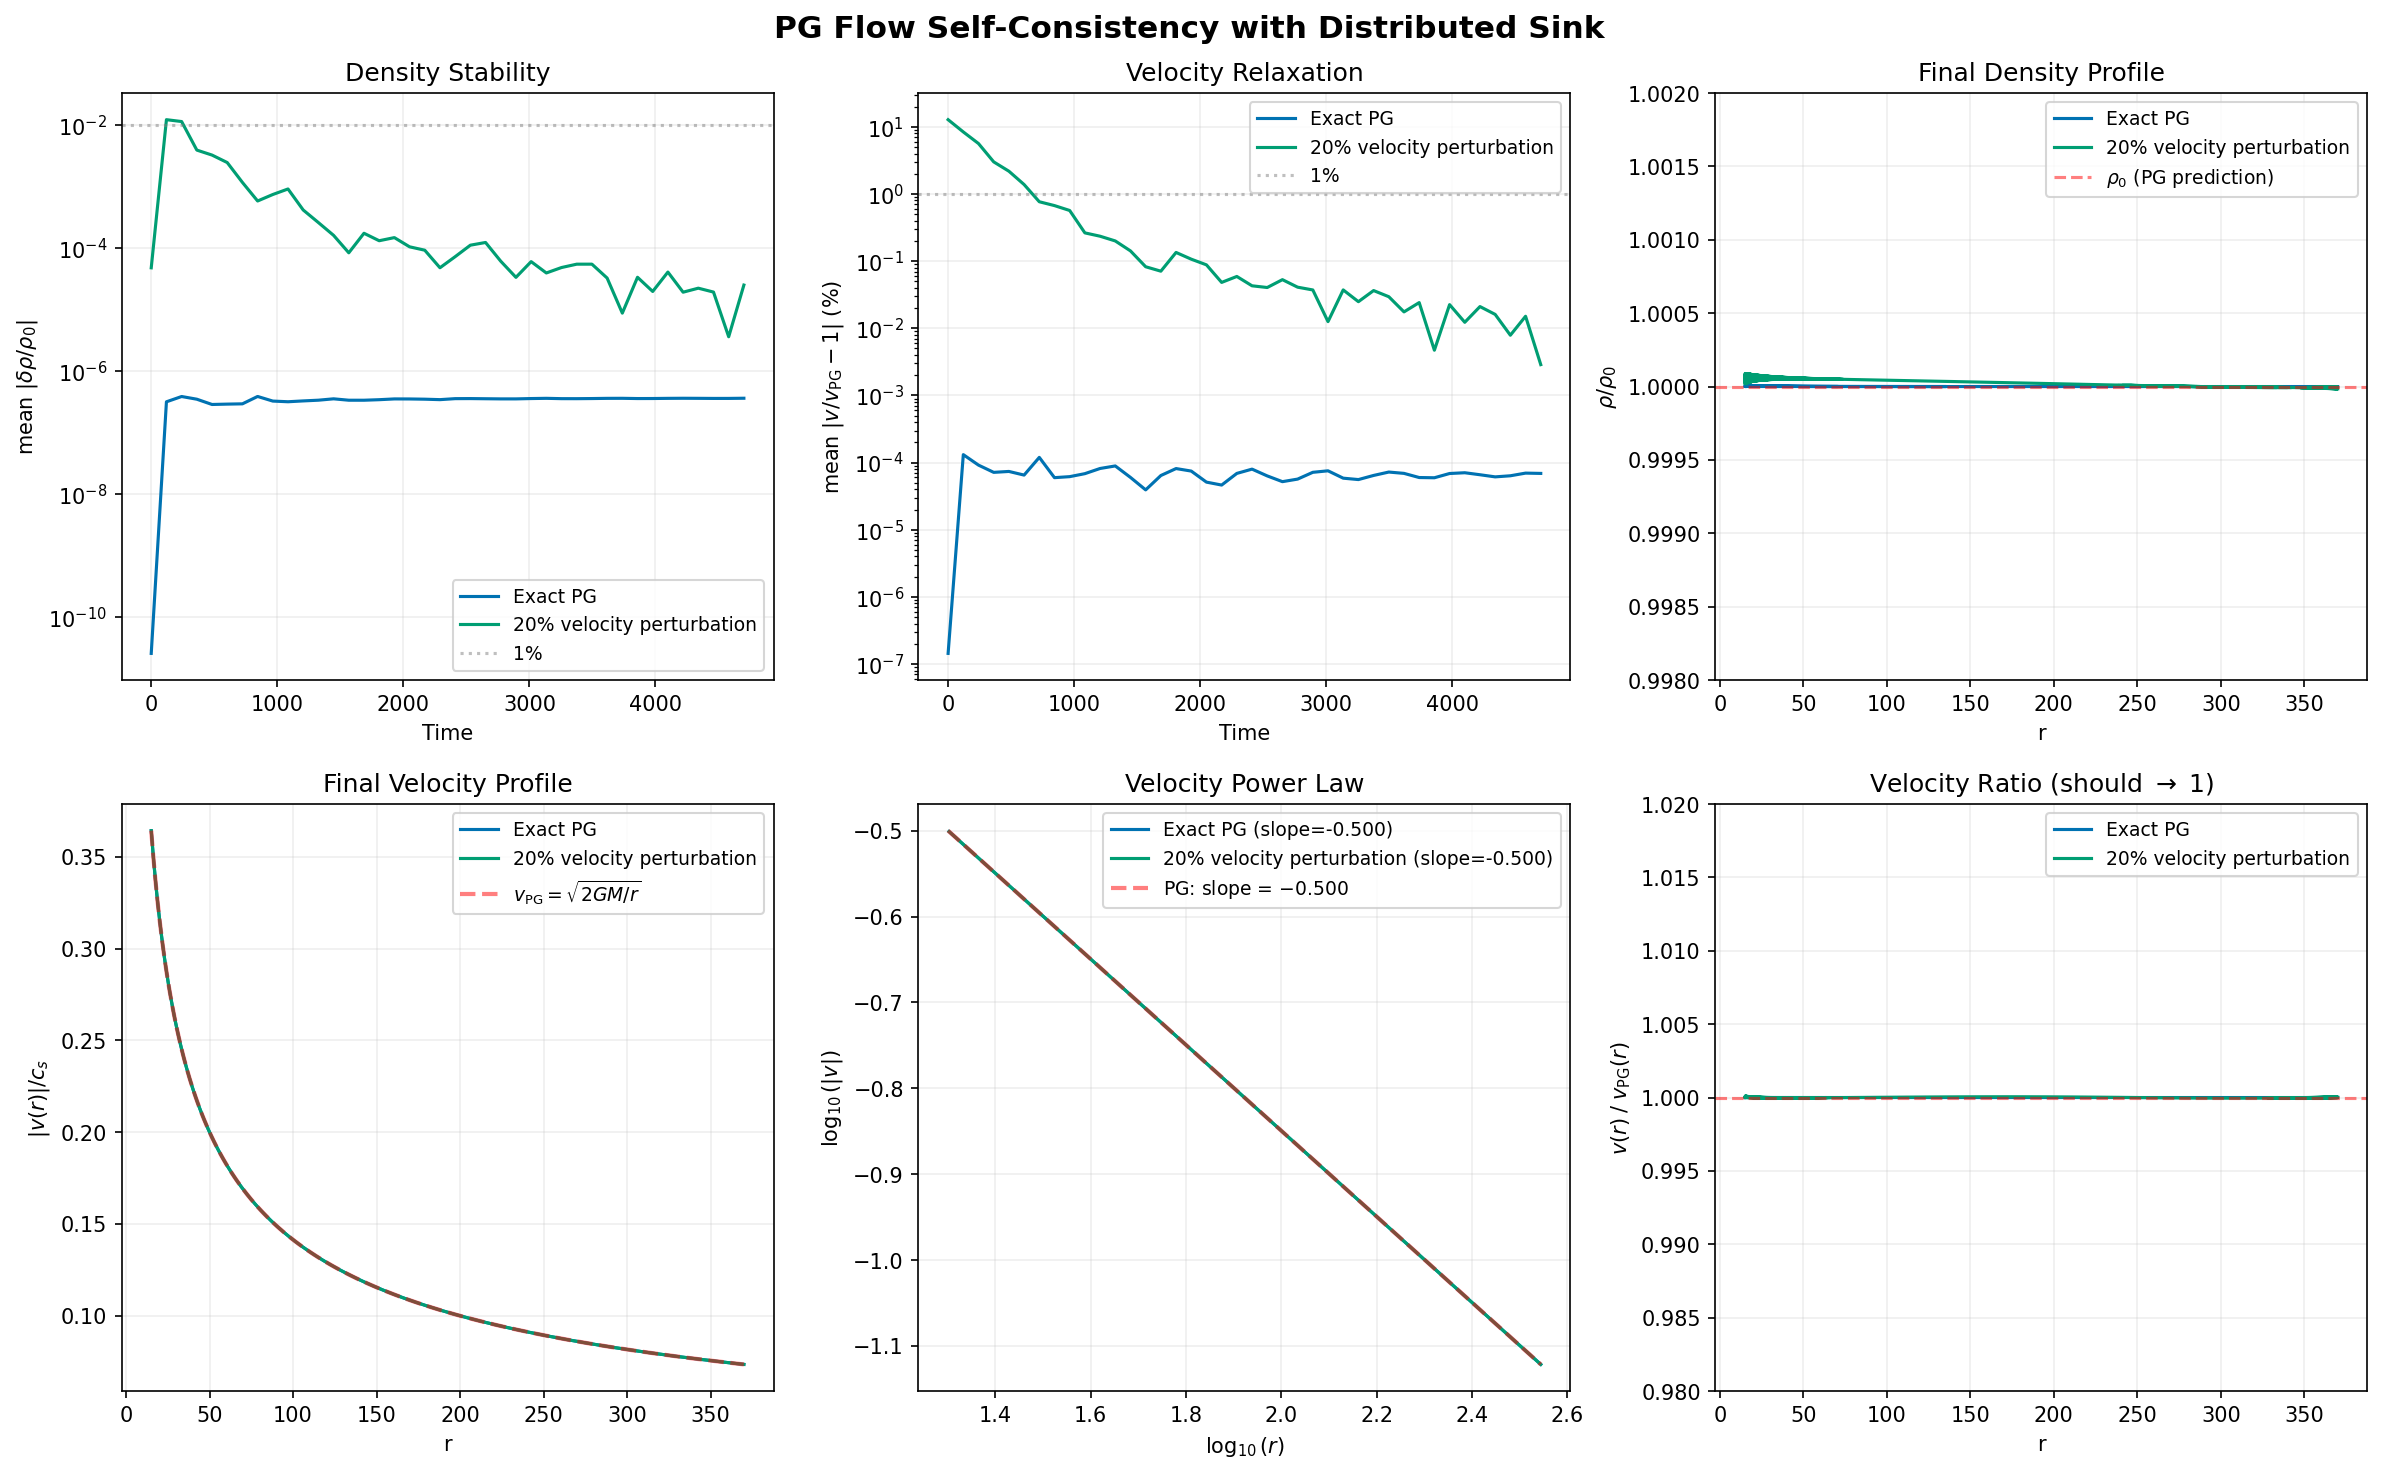
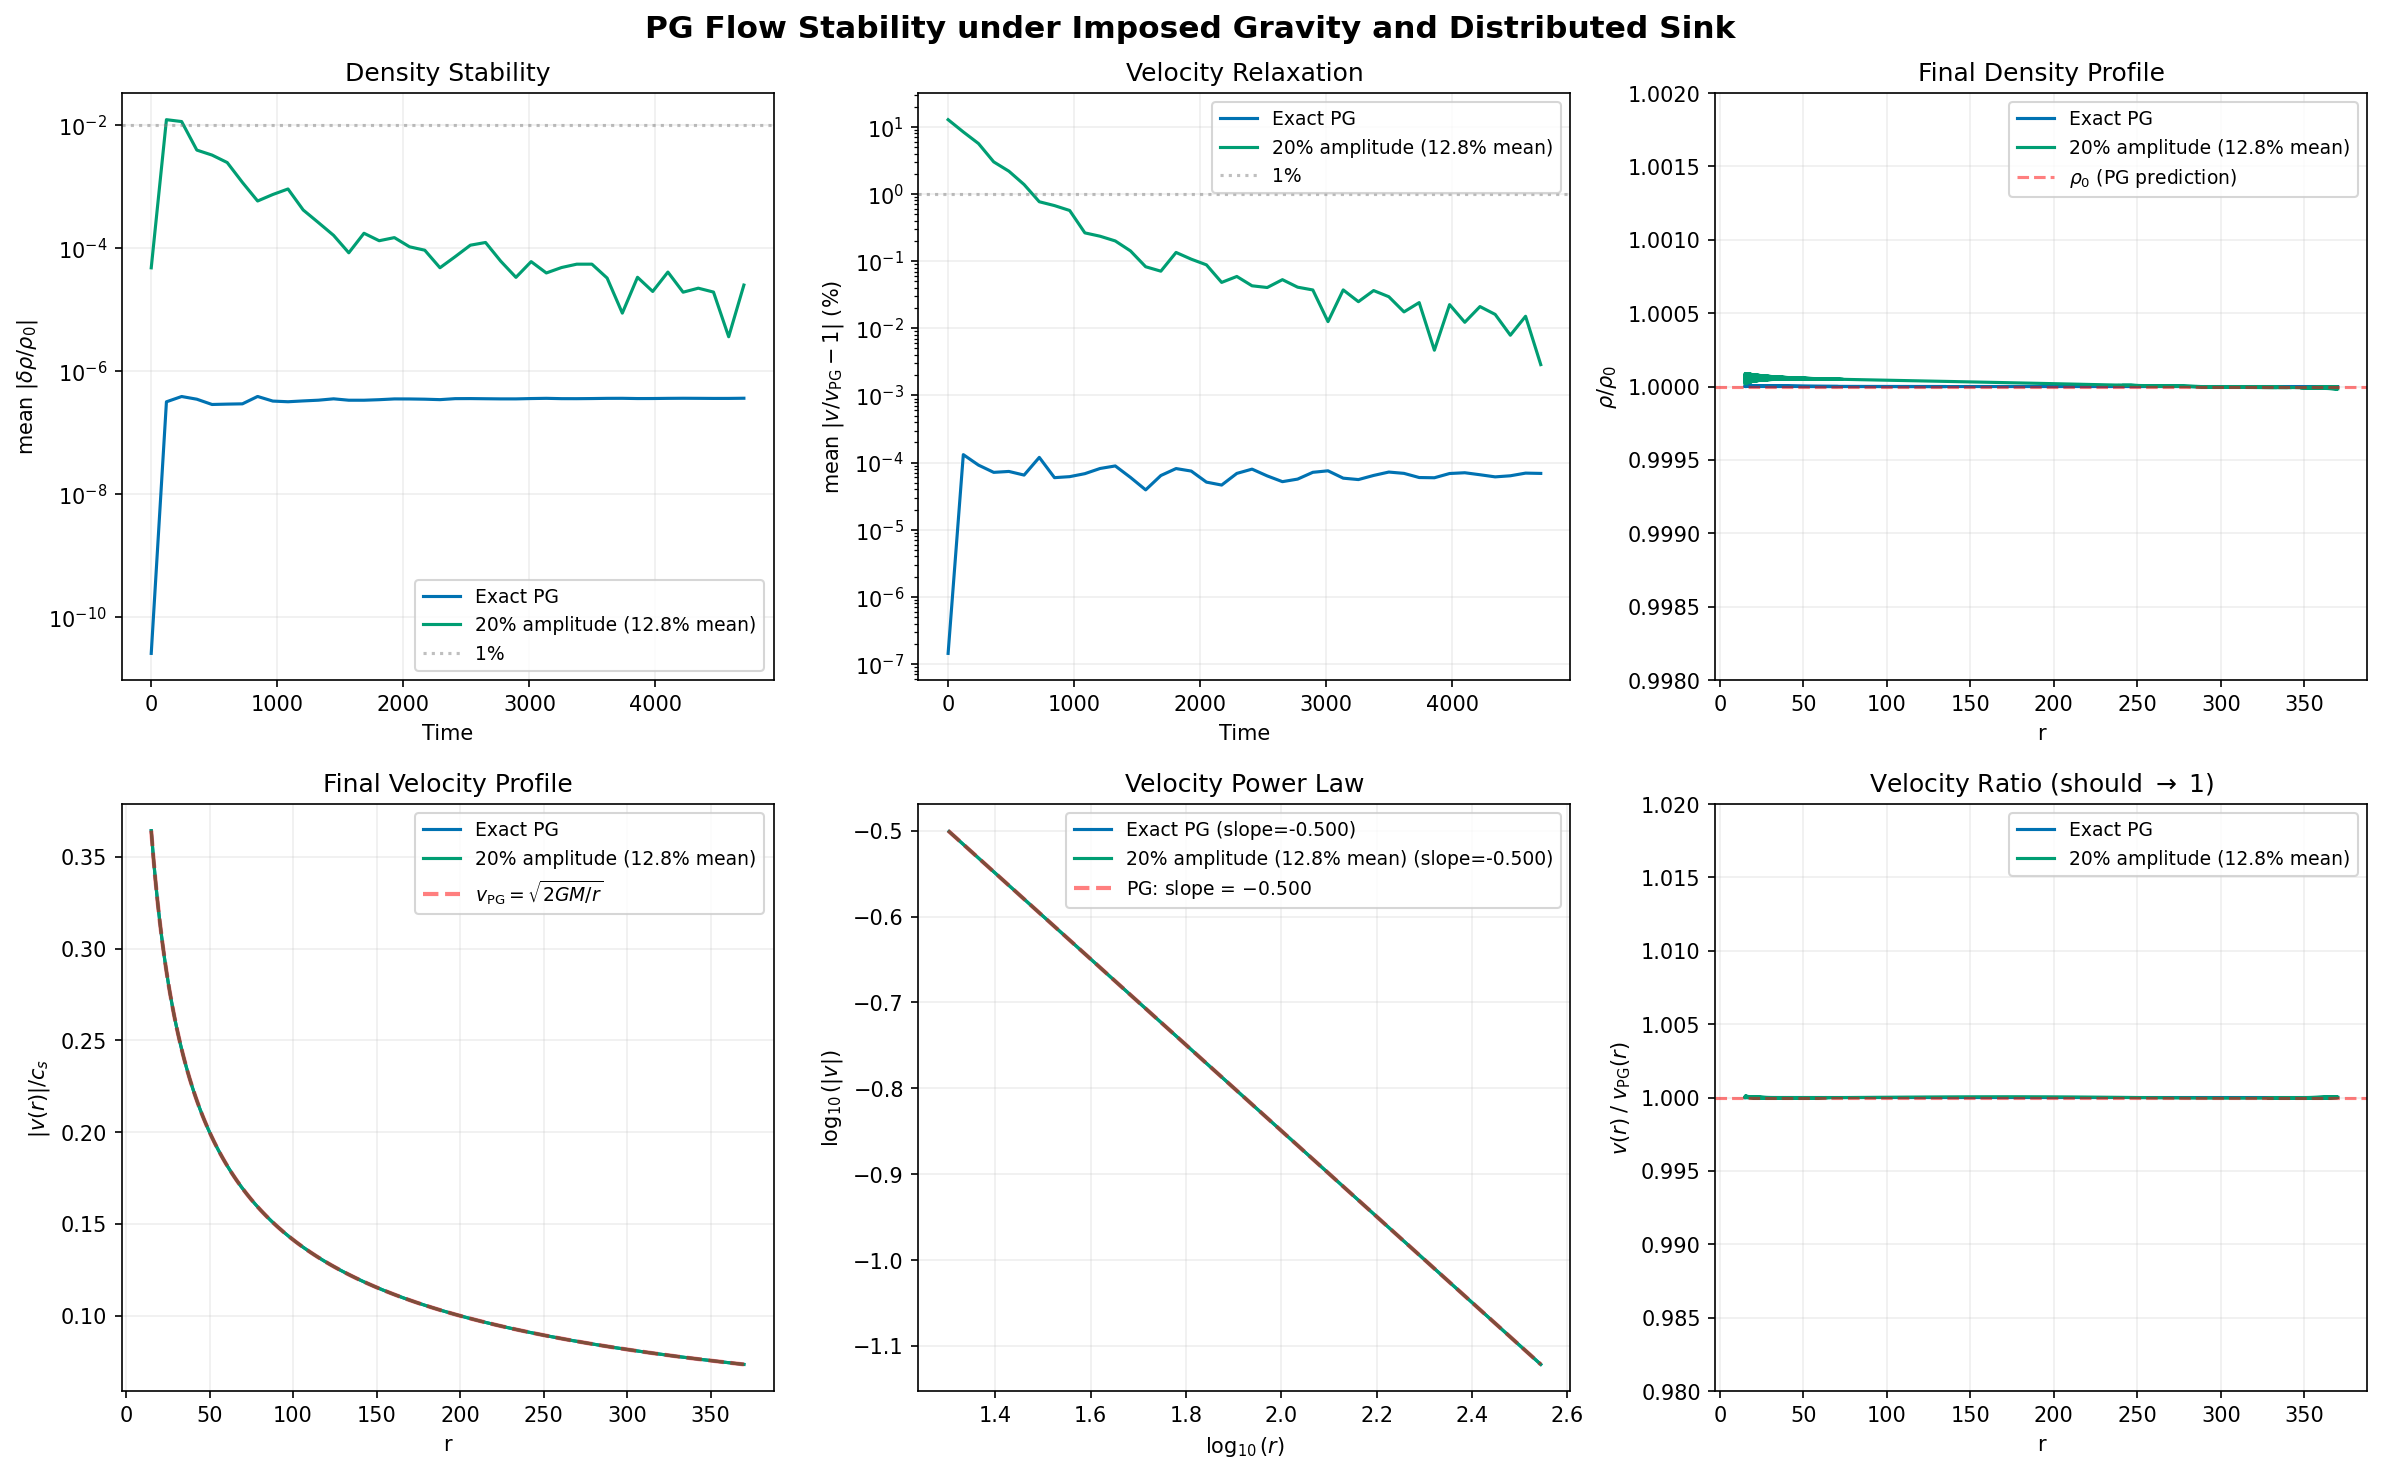
Update .gitignore and papers P2, P3, P5

diff --git a/papers/paper_2/pg_distributed_sink_final.py b/papers/paper_2/pg_distributed_sink_final.py
@@ -1,9 +1,21 @@
 """
-PG Flow Self-Consistency: Publication Version
-===============================================
-Two-case verification:
-  Case 1: Exact PG → confirms epsilon_1 = 0
-  Case 2: 20% velocity perturbation → confirms PG is an attractor
+PG Flow Stability / Attractor Test: Publication Version
+=======================================================
+Tests the dynamical stability of the Painleve-Gullstrand (PG) velocity
+profile under the 1D spherical Euler equations of the logarithmic fluid,
+with Newtonian gravity g = -GM/r^2 imposed externally and a distributed
+sink S = -rho_0 (div v_PG) that holds the background density uniform.
+
+  Case 1: Exact PG -> PG + sink is a STATIONARY solution (density stays
+                      at rho_0; this uniformity is imposed by the sink,
+                      not a depletion result).
+  Case 2: 20% velocity perturbation (mean ~12.8%) -> PG is a dynamical
+                      ATTRACTOR.
+
+NOTE: 'eps' below is the deviation from the IMPOSED rho_0, held near zero
+by the sink. It is NOT the physical self-consistent depletion, which is
+eps = -2U and decouples from the temporal metric at alpha = -1 (paper
+Sec. 3.3). This script tests flow stability only, not the depletion.
 """
 
 import torch
@@ -51,7 +63,9 @@ v_PG = -torch.sqrt(2 * GM / r)
 rho_PG = rho_0 * torch.ones_like(r)
 g_grav = -GM / r**2
 
-# Distributed sink
+# Distributed sink: chosen to exactly cancel the PG mass-flux divergence
+# so the background density stays uniform at rho_0. Uniform rho is thus
+# IMPOSED here, not derived; the physical depletion eps=-2U is separate.
 div_v_PG = -(3.0/2.0) * torch.sqrt(2 * GM / r**3)
 S_distributed = -rho_0 * div_v_PG
 
@@ -106,7 +120,7 @@ cases = {
         'color': '#0072B2',
         'ls': '-',
     },
-    r'20% velocity perturbation': {
+    r'20% amplitude (12.8% mean)': {
         'rho': rho_PG.clone(),
         'v': v_PG * (1 + 0.20 * torch.sin(2 * np.pi * r / 50.0)),
         'color': '#009E73',
@@ -197,7 +211,7 @@ v_PG_np = v_PG.cpu().numpy()
 valid_np = (r_np > r_min + 10) & (r_np < r_max - 30)
 
 fig, axes = plt.subplots(2, 3, figsize=(16, 10))
-fig.suptitle('PG Flow Self-Consistency with Distributed Sink',
+fig.suptitle('PG Flow Stability under Imposed Gravity and Distributed Sink',
              fontsize=15, fontweight='bold')
 
 # --- 1: Density deviation vs time ---
@@ -336,8 +350,9 @@ for name, res in results.items():
 
 print(f"""
 RESULTS:
-  Case 1 proves: PG + distributed sink is a stable equilibrium
-                 (epsilon_1 = 0 to machine precision)
-  Case 2 proves: PG is a dynamical attractor
-                 (20% perturbation relaxes to <0.02% in ~4000 t)
+  Case 1: PG + distributed sink is a stationary solution
+          (density held at rho_0 to machine precision BY the sink --
+           a consistency/stability check, not a depletion result)
+  Case 2: PG is a dynamical attractor
+          (20% velocity perturbation, mean ~12.8%, relaxes to <0.02%)
 """)

diff --git a/papers/paper_5/paper_5.tex b/papers/paper_5/paper_5.tex
@@ -41,7 +41,7 @@ The Penrose-Hawking singularity theorems~\cite{penrose_1965,hawking_1970} establ
 
 In quantum gravity approaches, the Planck length $\lP = \sqrt{\hbar G/c^3} \approx 1.616 \times 10^{-35}$~m is typically introduced as a fundamental discreteness scale or minimum length, either through dimensional analysis or through specific mechanisms such as loop quantization~\cite{rovelli_2004, ashtekar_2006} or string theory~\cite{polchinski_1998}. However, the physical origin of $\lP$ as a minimum length remains unclear: why should spacetime have a minimum resolution, and why at precisely this scale~\cite{garay_1995}?
 
-In a companion paper~\cite{kulangiev_2026a}, we developed a superfluid vacuum model based on the relativistic logarithmic Klein-Gordon equation, deriving emergent gravitational light bending with PPN parameter $\gamma = 1$. The framework treats the vacuum as a complex order parameter $\psi(x,t)$ whose Madelung decomposition $\psi = \sqrt{\rho}\,e^{iS/\heff}$ produces hydrodynamic equations with a density-dependent sound speed and a macroscopic flow velocity. Throughout that paper, the quantum potential (Bohm potential)~\cite{bohm_1952} $Q = \Box\sqrt{\rho}/\sqrt{\rho}$ was neglected in the macroscopic limit, valid at length scales much larger than the condensate's coherence scale.
+In a companion paper~\cite{kulangiev_2026a}, we developed a superfluid vacuum model based on the relativistic logarithmic Klein-Gordon equation~\cite{rosen_1969, bartkowski_gorka_2008}, deriving emergent gravitational light bending with PPN parameter $\gamma = 1$. The framework treats the vacuum as a complex order parameter $\psi(x,t)$ whose Madelung decomposition $\psi = \sqrt{\rho}\,e^{iS/\heff}$ produces hydrodynamic equations with a density-dependent sound speed and a macroscopic flow velocity. Throughout that paper, the quantum potential (Bohm potential)~\cite{bohm_1952} $Q = \Box\sqrt{\rho}/\sqrt{\rho}$ was neglected in the macroscopic limit, valid at length scales much larger than the condensate's coherence scale.
 
 In this paper, we restore $Q$ and show that it provides a natural singularity regularization mechanism. The healing length $\xi = \heff/(\meff c)$ of the condensate---the scale at which $Q$ balances the logarithmic interaction---sets a minimum spatial resolution. We then show that self-consistency of the framework, requiring the dimensionally-correct gravitational coupling $G \sim c^2/(\xi^2 \rho_0)$ to match the observed Newton's constant when combined with the healing-length structure of the soliton and the natural condensate packing density $n_0 \sim 1/\xi^3$, uniquely fixes $\xi = \lP$, the Planck length.
 
@@ -115,7 +115,7 @@ If $\rho \to \rho_{\max}$ as $r \to 0$ (a regularized core), then $Q \to Q_0 = \
 \label{sec:gausson}
 % ====================================================================
 
-The ground-state soliton of the logarithmic wave equation is the Gausson---a Gaussian-localized solution discovered by Bia{\l}ynicki-Birula and Mycielski~\cite{bialynicki_birula_1979}. For the three-dimensional stationary equation with the logarithmic potential, the density profile is:
+The ground-state soliton of the logarithmic wave equation is the Gausson---a Gaussian-localized solution discovered by Bia{\l}ynicki-Birula and Mycielski~\cite{bialynicki_birula_1976, bialynicki_birula_1979}. For the three-dimensional stationary equation with the logarithmic potential, the density profile is:
 \begin{equation}
     \rho(r) = \rho_{\max}\,
     \exp\!\left(-\frac{r^2}{\sigma^2}\right)\,,
@@ -149,7 +149,7 @@ The quantum potential at the Gausson center evaluates to:
     = \frac{3\,\meff\,c^2}{2}\,,
 \label{eq:Q_center}
 \end{equation}
-which is of order the rest energy $\meff c^2$. The associated curvature scale is $Q(0)/\heff^2 \sim 1/\xi^2$. This is the maximum curvature the acoustic metric can sustain: the Kretschmann scalar~\cite{kretschmann_1917} of the acoustic metric is bounded by $K \lesssim 1/\xi^4$.
+which is of order the rest energy $\meff c^2$. The associated curvature scale is $Q(0)/\heff^2 \sim 1/\xi^2$. This is the maximum curvature the acoustic metric can sustain: the Kretschmann scalar of the acoustic metric is bounded by $K \lesssim 1/\xi^4$.
 
 % ====================================================================
 \section{Derivation of the Healing Length from Known Parameters}
@@ -170,7 +170,7 @@ up to a dimensionless prefactor of order unity. The length scale $\xi$ in the de
 
 \subsection{The Gausson energy}
 
-The Gausson rest energy is given by the Bia{\l}ynicki-Birula--Mycielski energy functional~\cite{bialynicki_birula_1979} of the logarithmic Schr\"{o}dinger equation. For a Gaussian density profile $\rho(r) = n_0\,e^{-r^2/\sigma^2}$ of width $\sigma = \xi = \heff/(\meff c)$, the quantum-pressure contribution to the energy is, at the order of magnitude,
+The Gausson rest energy is given by the Bia{\l}ynicki-Birula--Mycielski energy functional~\cite{bialynicki_birula_1976, bialynicki_birula_1979} of the logarithmic Schr\"{o}dinger equation. For a Gaussian density profile $\rho(r) = n_0\,e^{-r^2/\sigma^2}$ of width $\sigma = \xi = \heff/(\meff c)$, the quantum-pressure contribution to the energy is, at the order of magnitude,
 \begin{equation}
     E_v \sim \int Q\,\rho\,d^3x
     \sim \frac{\heff^2}{\meff\,\xi^2}\cdot\xi^3\,n_0
@@ -730,10 +730,26 @@ Claude (Anthropic) and Gemini (Google) were used as editorial and computational 
 
 \begin{thebibliography}{25}
 
-\bibitem{kretschmann_1917}
-E.~Kretschmann,
-\"Uber den physikalischen Sinn der Relativit\"{a}tspostulate, A.\ Einsteins neue und seine urspr\"{u}ngliche Relativit\"{a}tstheorie,
-Ann.\ Phys.\ (Leipzig) \textbf{358}, 575 (1917).
+\bibitem{rosen_1969}
+G.~Rosen,
+Dilatation covariance and exact solutions in local relativistic field theories,
+Phys.\ Rev.\ \textbf{183}, 1186 (1969).
+
+\bibitem{bartkowski_gorka_2008}
+K.~Bartkowski and P.~G\'{o}rka,
+One-dimensional Klein--Gordon equation with logarithmic nonlinearities,
+J.\ Phys.\ A \textbf{41}, 355201 (2008).
+
+\bibitem{bialynicki_birula_1976}
+I.~Bia{\l}ynicki-Birula and J.~Mycielski,
+Nonlinear wave mechanics,
+Ann.\ Phys.\ (N.Y.)\ \textbf{100}, 62 (1976).
+
+\bibitem{bialynicki_birula_1979}
+I.~Bia{\l}ynicki-Birula and J.~Mycielski,
+Gaussons: Solitons of the logarithmic Schr\"{o}dinger
+equation,
+Phys.\ Scr.\ \textbf{20}, 539 (1979).
 
 \bibitem{madelung_1927}
 E.~Madelung,
@@ -793,12 +809,6 @@ Preprint (2026).
 \bibitem{volovik_2003}
 G.~E.~Volovik,
 \emph{The Universe in a Helium Droplet} (Oxford, 2003).
-
-\bibitem{bialynicki_birula_1979}
-I.~Bia{\l}ynicki-Birula and J.~Mycielski,
-Gaussons: Solitons of the logarithmic Schr\"{o}dinger
-equation,
-Phys.\ Scr.\ \textbf{20}, 539 (1979).
 
 \bibitem{landau_1947}
 L.~D.~Landau,

diff --git a/papers/paper_3/paper3.tex b/papers/paper_3/paper3.tex
@@ -38,7 +38,7 @@ We derive the cosmological consequences of modeling the vacuum as a relativistic
 
 Three open problems in cosmology motivate this work. First, the cosmological constant problem: why the vacuum energy density driving the accelerated expansion of the universe takes the value it does, and why its equation of state is $w = -1$. Second, the Hubble tension: the persistent $\sim 5\sigma$ discrepancy between the Hubble constant inferred from the early-universe Cosmic Microwave Background (CMB) ($H_0 = 67.36 \pm 0.54$~km\,s$^{-1}$\,Mpc$^{-1}$~\cite{planck_2020}) and the late-universe distance ladder ($H_0 = 73.04 \pm 1.04$~km\,s$^{-1}$\,Mpc$^{-1}$~\cite{riess_2022}). Third, the nature of the CMB temperature: whether $\Tcmb = 2.72548 \pm 0.00057$~K~\cite{fixsen_2009} is a freely set initial condition or a quantity determined by fundamental physics.
 
-In companion papers~\cite{kulangiev_2026a,kulangiev_2026b}, we developed a superfluid vacuum model based on the relativistic logarithmic Klein-Gordon equation, showing that the Painlev\'{e}-Gullstrand (PG) inflow $v = \sqrt{2\Geff M/r}$ is the unique self-consistent weak-field solution of the acoustic metric equations, yielding the Parameterized Post-Newtonian (PPN) parameter $\gamma = 1$ and the emergent gravitational coupling $\Geff \sim c^2/(\xi^2\rho_0)$. Separately, an approximate numerical relation $\Omega_\gamma \approx \alpha^2$ was reported~\cite{kulangiev_2026o}, predicting $H_0 = 68.15$~km\,s$^{-1}$\,Mpc$^{-1}$.
+In companion papers~\cite{kulangiev_2026a,kulangiev_2026b}, we developed a superfluid vacuum model based on the relativistic logarithmic Klein-Gordon equation, showing that the Painlev\'{e}-Gullstrand (PG) inflow $v = \sqrt{2\Geff M/r}$ is the unique self-consistent weak-field solution of the acoustic metric equations, yielding the Parameterized Post-Newtonian (PPN) parameter $\gamma = 1$ and the emergent gravitational coupling $\Geff \sim c^2/(\xi^2\rho_0)$. Separately, an empirical relation $\Omega_\gamma \approx \alpha^2$ was reported~\cite{kulangiev_2026o}, predicting $H_0 = 68.15$~km\,s$^{-1}$\,Mpc$^{-1}$.
 
 In this paper, we show that combining these results yields cosmological consequences addressing all three problems. The logarithmic equation of state produces $w = -1$ from first principles. The emergent $\Geff$ and the $\Omega_\gamma = \alpha^2$ relation together imply a self-consistency equation linking $\alpha$, $H_0$, $\rho_0$, and $\Tcmb$. Spatial variations of $\rho_0$ provide a physical mechanism for the Hubble tension, and the CMB peak structure is shown to be exactly invariant under these variations.
 
@@ -71,6 +71,7 @@ where $\xi$ is the healing length of the condensate. Self-consistency with the o
 
 
 % ====================================================================
+\newpage
 \section{Dark Energy from the Logarithmic Equation of State}
 \label{sec:dark_energy}
 % ====================================================================
@@ -82,7 +83,12 @@ For the logarithmic potential $V(\rho) = -b\,\rho\,\ln(\rho/\rho_c)$, the macros
     P = \rho\,\frac{\partial V}{\partial\rho} - V = -b\,\rho_0\,.
 \label{eq:pressure}
 \end{equation}
-With $b$ normalized so that $c_s = c$ at the background density, this gives $P = -\rho_0 c^2$, i.e.\ an equation of state parameter $w = P/(\rho_0 c^2) = -1$. This is not imposed as a free parameter; it follows directly from the logarithmic self-interaction that defines the superfluid vacuum.
+The energy density is the time-time component of the stress-energy tensor, the k-essence counterpart of the pressure~(\ref{eq:pressure}): $\epsilon = \rho_{\mathrm{mass}}c^2 = \rho\,V'(\rho) + V(\rho)$~\cite{kulangiev_2026b}. The equation of state is the ratio $w = P/\epsilon$, formed with the mass density rather than the Lagrangian variable $\rho_0$ of Eq.~(\ref{eq:pressure}). In this ratio, $b$ cancels. The background condition $\rho_c = e\rho_0$---the same condition that normalizes $c_s = c$ and gives $\alpha = -1$---is precisely the extremum condition $V'(\rho_0) = 0$ of the logarithmic potential, at which $P = -V(\rho_0)$ and $\epsilon = +V(\rho_0)$. Hence
+\begin{equation}
+    \boxed{\;w = \frac{P}{\epsilon} = \frac{\rho_0 V'(\rho_0) - V(\rho_0)}{\rho_0 V'(\rho_0) + V(\rho_0)} = -1\;}
+\label{eq:w_exact}
+\end{equation}
+exactly and independently of $b$: $w = -1$ is a consequence of the vacuum sitting at the extremum of its self-interaction potential---the same point at which $c_s = c$ and $\alpha = -1$. As a check, the radiation potential $V = \tfrac12 g\rho^2$ gives $P = \tfrac12 g\rho^2$, $\epsilon = \tfrac32 g\rho^2$, and $w = \tfrac13$.
 
 \subsection{Thermodynamic stability of the vacuum density}
 
@@ -94,6 +100,7 @@ The thermodynamic stability above is a property of the equation of state alone a
 
 
 % ====================================================================
+\newpage
 \section{The Vacuum Self-Consistency Equation}
 \label{sec:self_consistency}
 % ====================================================================
@@ -170,7 +177,7 @@ The mechanism by which a vacuum density perturbation produces an inflated locall
 
 \subsection{The global anchor}
 
-The $\Omega_\gamma = \alpha^2$ relation~\cite{kulangiev_2026o} predicts $H_0 = 68.15 \pm 0.15$~km\,s$^{-1}$\,Mpc$^{-1}$ as the \emph{global} value---the expansion rate of the undisturbed vacuum far from any void. The Planck measurement ($67.36 \pm 0.54$) is closest to this value because the CMB averages over the entire sky, probing the global vacuum. The SH0ES measurement ($73.04 \pm 1.04$) reflects the local void environment. In this picture, the Hubble tension is not a crisis requiring new physics but an environmental effect: the two measurements \emph{should} differ, and their discrepancy is the observational signature of a vacuum thermodynamic fluctuation.
+The $\Omega_\gamma = \alpha^2$ relation~\cite{kulangiev_2026o} predicts $H_0 = 68.15 \pm 0.03$~km\,s$^{-1}$\,Mpc$^{-1}$ as the \emph{global} value---the expansion rate of the undisturbed vacuum far from any void. The quoted uncertainty is the FIRAS temperature error propagated through the relation and reflects the sharpness with which $T_{\mathrm{CMB}}$ fixes $H_0$ once the identity is assumed exact, not a confidence interval on the identity itself~\cite{kulangiev_2026o}. The Planck measurement ($67.36 \pm 0.54$) is closest to this value because the CMB averages over the entire sky, probing the global vacuum. The SH0ES measurement ($73.04 \pm 1.04$) reflects the local void environment. In this picture, the Hubble tension is not a crisis requiring new physics but an environmental effect: the two measurements \emph{should} differ, and their discrepancy is the observational signature of a vacuum thermodynamic fluctuation.
 
 
 % ====================================================================
@@ -203,7 +210,7 @@ The CMB peak positions are exactly invariant under the superfluid vacuum transfo
 
 \begin{figure}[H]
 \centering
-\includegraphics[width=0.75\columnwidth]{cmb_invariance_plot.pdf}
+\includegraphics[width=\columnwidth]{cmb_invariance_plot.pdf}
 \caption{\emph{Top:} CMB temperature power spectrum computed with CAMB~\cite{camb} for three cases with identical physical densities ($\omega_b = 0.0224$, $\omega_c = 0.120$): the global vacuum
 ($H_0 = 68.15$~km\,s$^{-1}$\,Mpc$^{-1}$, solid blue), the local void in standard $\Lambda$CDM ($H_0 = 73.04$, dashed orange), and the superfluid vacuum with $c_s$ rescaling ($H_0 = 73.04$, dotted green). The superfluid spectrum is obtained by rescaling the
 multipole axis by $\theta_{*,\mathrm{local}}/\theta_{*,\mathrm{global}}$,
@@ -327,7 +334,7 @@ The framework makes several testable predictions:
 
 \paragraph{Spatial variation of $\Lambda$} Unlike standard $\Lambda$CDM, the effective cosmological constant varies spatially as $\Lambda \propto c_s^4$. A $3.6\%$ vacuum underdensity produces $\sim 16\%$ variation in $\Lambda$. This is testable by comparing expansion rate measurements in void vs.\ wall environments.
 
-\paragraph{$H_0 = 68.15 \pm 0.15$ as the global value} Standard sirens (LIGO/Virgo/KAGRA), strong lensing time delays (TDCOSMO), and tip-of-the-red-giant-branch calibrations should converge on this value when averaged over sufficiently large volumes.
+\paragraph{$H_0 = 68.15 \pm 0.03$ as the global value} Standard sirens (LIGO/Virgo/KAGRA), strong lensing time delays (TDCOSMO), and tip-of-the-red-giant-branch calibrations should converge on this value when averaged over sufficiently large volumes.
 
 \paragraph{No temporal variation of $G$} The thermodynamic stability of $\rho_0$ ensures $dG/dt = 0$ at the background level, consistent with current bounds $|\dot{G}/G| < 10^{-13}$~yr$^{-1}$~\cite{will_2014}.
 
@@ -364,8 +371,9 @@ The methodological stance of this paper---treating the order parameter as a real
 
 \bibitem{kulangiev_2026o}
 B.~B.~Kulangiev,
-An approximate numerical relation between the CMB photon density parameter and the fine structure constant,
-Preprint (2026). \url{https://kulangiev.github.io/#paper0}
+An Empirical Constraint on the Hubble Constant from the Relation $\Omega_\gamma = \alpha^2$,
+Preprint (2026).
+\url{https://kulangiev.github.io/#paper0}
 
 \bibitem{kulangiev_2026a}
 B.~B.~Kulangiev,

diff --git a/papers/paper_2/paper_2.tex b/papers/paper_2/paper_2.tex
@@ -143,10 +143,11 @@ For the relativistic logarithmic equation of state at the background density, $\
     \gamma_{\mathrm{static}} \to \infty\quad\text{at}\quad \alpha = -1\,.
 \label{eq:gamma_pathology}
 \end{equation}
-The static acoustic metric is mathematically pathological: the spatial metric perturbation diverges relative to the temporal one, and no finite weak-field expansion around the static background exists. Physically, the pole signals that the static configuration is not a stable background for perturbations of the density alone. Any consistent treatment must therefore introduce additional dynamical content beyond the static density channel; this is the role of the macroscopic flow developed in Sec.~\ref{sec:self_consistency} below.
+The static acoustic metric is mathematically pathological: the spatial metric perturbation diverges relative to the temporal one, and no finite weak-field expansion around the static background exists. Physically, the pole signals that the static configuration is not a stable background for perturbations of the density alone. Any consistent treatment must therefore introduce additional dynamical content beyond the static density channel; this is the role of the macroscopic flow developed in Sec.~\ref{sec:solution_b}.
 
 
-\subsection{Solution B: Painlev\'{e}-Gullstrand flow \texorpdfstring{($\vb = \sqrt{2\Phieff}$, $\rhob \approx \rho_0$)}{(v = sqrt(2*Phi\_eff), rho approx rho\_0)}}
+\subsection{Solution B: Painlev\'{e}-Gullstrand flow \texorpdfstring{($\vb = \sqrt{2|\Phieff|}$, $\rhob \approx \rho_0$)}{(v = sqrt(2|Phi\_eff|), rho approx rho\_0)}}
+\label{sec:solution_b}
 
 With $\vb^2 = 2|\Phieff|$ and $\rhob = \rho_0$:
 \begin{align}
@@ -325,13 +326,13 @@ Two cases are evolved for $2 \times 10^5$ time steps ($T \approx 4822$ in units 
 
 \emph{Case~1:} Exact PG initial conditions ($\rho = \rho_0$, $v = \sqrt{2GM/r}$). The density deviation remains bounded by $|\delta\rho/\rho_0| < 10^{-5}$ and the velocity error stays below $10^{-3}\%$ throughout. The measured velocity power law is $v \propto r^{-0.500}$ to three significant figures. This simulation imposes an external potential $\Phi = -GM/r$ in the momentum equation rather than letting the metric emerge self-consistently; it therefore tests the dynamical stability of the PG configuration, and is consistent with---but does not by itself establish---the gravitational decoupling of the density channel derived in Sec.~\ref{sec:density_decoupling}.
 
-\emph{Case~2:} A 20\% sinusoidal velocity perturbation is imposed on the PG profile. The perturbation decays monotonically with the velocity error decreasing from 12.8\% to 0.02\% over $T \approx 4220$ in units of $r_{\mathrm{min}}/c_s$, and the power law slope recovering to $-0.500$. The final density excursion $|\delta\rho/\rho_0| \approx 4 \times 10^{-5}$ and final velocity error of $0.02\%$ are both consistent with relaxation toward the PG configuration. This demonstrates that the PG flow is not merely a stationary point but a \emph{dynamical attractor}: perturbations are expelled, and the system relaxes to the PG configuration. 
+\emph{Case~2:} A 20\% sinusoidal velocity perturbation is imposed on the PG profile. The perturbation relaxes non-monotonically---the mean density deviation transiently rises to $\sim 1\%$ near $T \approx 200$ before decaying---with the velocity error decreasing from 12.8\% to $\approx 0.02\%$ over $T \approx 4220$ in units of $r_{\mathrm{min}}/c_s$, and the power-law slope recovering to $-0.500$. The final density excursion $|\delta\rho/\rho_0| \approx 4 \times 10^{-5}$ and final velocity error of $0.02\%$ are both consistent with relaxation toward the PG configuration. This demonstrates that the PG flow is not merely a stationary point but a \emph{dynamical attractor}: perturbations are expelled, and the system relaxes to the PG configuration. 
 
 We note that the PG attractor behavior demonstrated here is generic to any barotropic EOS that asymptotes to $c_s \to c$ at the background; the simulation thus verifies the dynamical stability of the PG configuration and the correct functioning of the distributed sink mechanism, but is not a specific test of the relativistic logarithmic equation of state. Tests sensitive to the EOS at higher orders in $\delta\rho/\rho_0$ are deferred to future work.
 
 \begin{figure}[H]
 \centering
-\includegraphics[width=\textwidth]{pg_distributed_sink.png}
+\includegraphics[width=\textwidth]{pg_distributed_sink.pdf}
 \caption{\emph{Top row, left to right:} density deviation and velocity error versus time for exact PG (blue) and 20\% velocity perturbation (green); final density profile.
 \emph{Bottom row:} final velocity profile compared with $v_{\mathrm{PG}} = \sqrt{2GM/r}$ (dashed red); velocity power law with measured slopes; velocity ratio $v/v_{\mathrm{PG}}$. Both cases converge to $v \propto r^{-0.500}$ with $\rho/\rho_0 = 1$ to within $10^{-4}$.}
 \label{fig:pg_numerical}
@@ -392,7 +393,12 @@ The requirement that $\rho_0$ remain approximately constant across cosmic time i
     P = \rho\,\frac{\partial V}{\partial\rho} - V = -b\,\rho_0\,.
 \label{eq:pressure}
 \end{equation}
-With $b$ normalized so that $c_s = c$ at the background density, this gives $P \approx -\rho_0 c^2$, i.e.\ an equation of state parameter $w = P/(\rho_0 c^2) = -1$. Through the first law of thermodynamics, the expansion of cosmic volume performs work against this tension, and the cosmological density parameter scales as $\rho \propto a^{-3(1+w)} = a^0 = \text{const}$. The mechanism by which this is realized---whether through open-system condensate accretion, intrinsic potential-minimum stability, or another mechanism---is beyond the scope of the present analysis and is developed elsewhere.
+The equation of state is the ratio of this pressure to the energy density $\epsilon = \rho_{\mathrm{mass}}c^2 = \rho V'(\rho) + V(\rho)$~(Eq.~\ref{eq:rho_mass_def}), formed with the mass density rather than the Lagrangian variable $\rho_0$. In this ratio, $b$ cancels. The background condition $\rho_c = e\rho_0$---the same one that fixes $c_s = c$ and $\alpha = -1$---is the extremum condition $V'(\rho_0) = 0$, at which $P = -V(\rho_0)$ and $\epsilon = +V(\rho_0)$:
+\begin{equation}
+    \boxed{\;w = \frac{P}{\epsilon} = \frac{\rho_0 V'(\rho_0) - V(\rho_0)}{\rho_0 V'(\rho_0) + V(\rho_0)} = -1\;}
+\label{eq:w_exact}
+\end{equation}
+exactly and independently of $b$. The value $w = -1$ is a consequence of the vacuum sitting at the extremum of its self-interaction potential, not of any tuning. Through the first law of thermodynamics, the expansion of cosmic volume performs work against this tension, and the cosmological density parameter scales as $\rho \propto a^{-3(1+w)} = a^0 = \text{const}$. The mechanism by which this is realized---whether through open-system condensate accretion, intrinsic potential-minimum stability, or another mechanism---is beyond the scope of the present analysis and is developed elsewhere.
 
 \subsection{Predictions and tests}
 
@@ -408,6 +414,7 @@ The framework makes several testable predictions:
 
 
 % ====================================================================
+\newpage
 \section{Conclusion}
 \label{sec:conclusion}
 % ====================================================================
@@ -423,7 +430,7 @@ $v^2 \propto 1/r$.
 
 (3) The emergent gravitational constant $\Geff \sim c^2/(\xi^2\rho_0)$ is universal. Combined with the soliton healing-length structure and the natural condensate packing density, self-consistency fixes $\xi \sim \lP$ and $\rho_0 \sim m_P/\lP^3$ (Planck scale).
 
-(4) The first-order density depletion from the PG flow, $\epsilon = -U$, decouples from the temporal metric at the background exponent $\alpha = -1$, so the vacuum around a gravitating mass is gravitationally indistinguishable from free vacuum at the $10^{-12}$ level even though its density is perturbed at $O(U)$.
+(4) The first-order density depletion from the PG flow, $\epsilon = -2U$, decouples from the temporal metric at the background exponent $\alpha = -1$, so the vacuum around a gravitating mass is gravitationally indistinguishable from free vacuum at the $10^{-12}$ level even though its density is perturbed at $O(U)$.
 
 The apparent continuity constraint of the macroscopic PG inflow remains an open problem. Among the candidate mechanisms discussed in Sec.~\ref{sec:continuity}, the geometric-redirection option---where rotation defines a polar axis and the radial inflow is balanced by axial outflow at large angles from the equatorial plane---is mathematically attractive but requires a proper axisymmetric analysis beyond the present scope. The formal derivation of the macroscopic PG flow as a collective Bernoulli response of $N$ microscopic vortex-Gaussons to the mean-field gravitational potential---the gravitational analogue of the Feynman-Onsager relation in rotating superfluids---is left to future work.
 